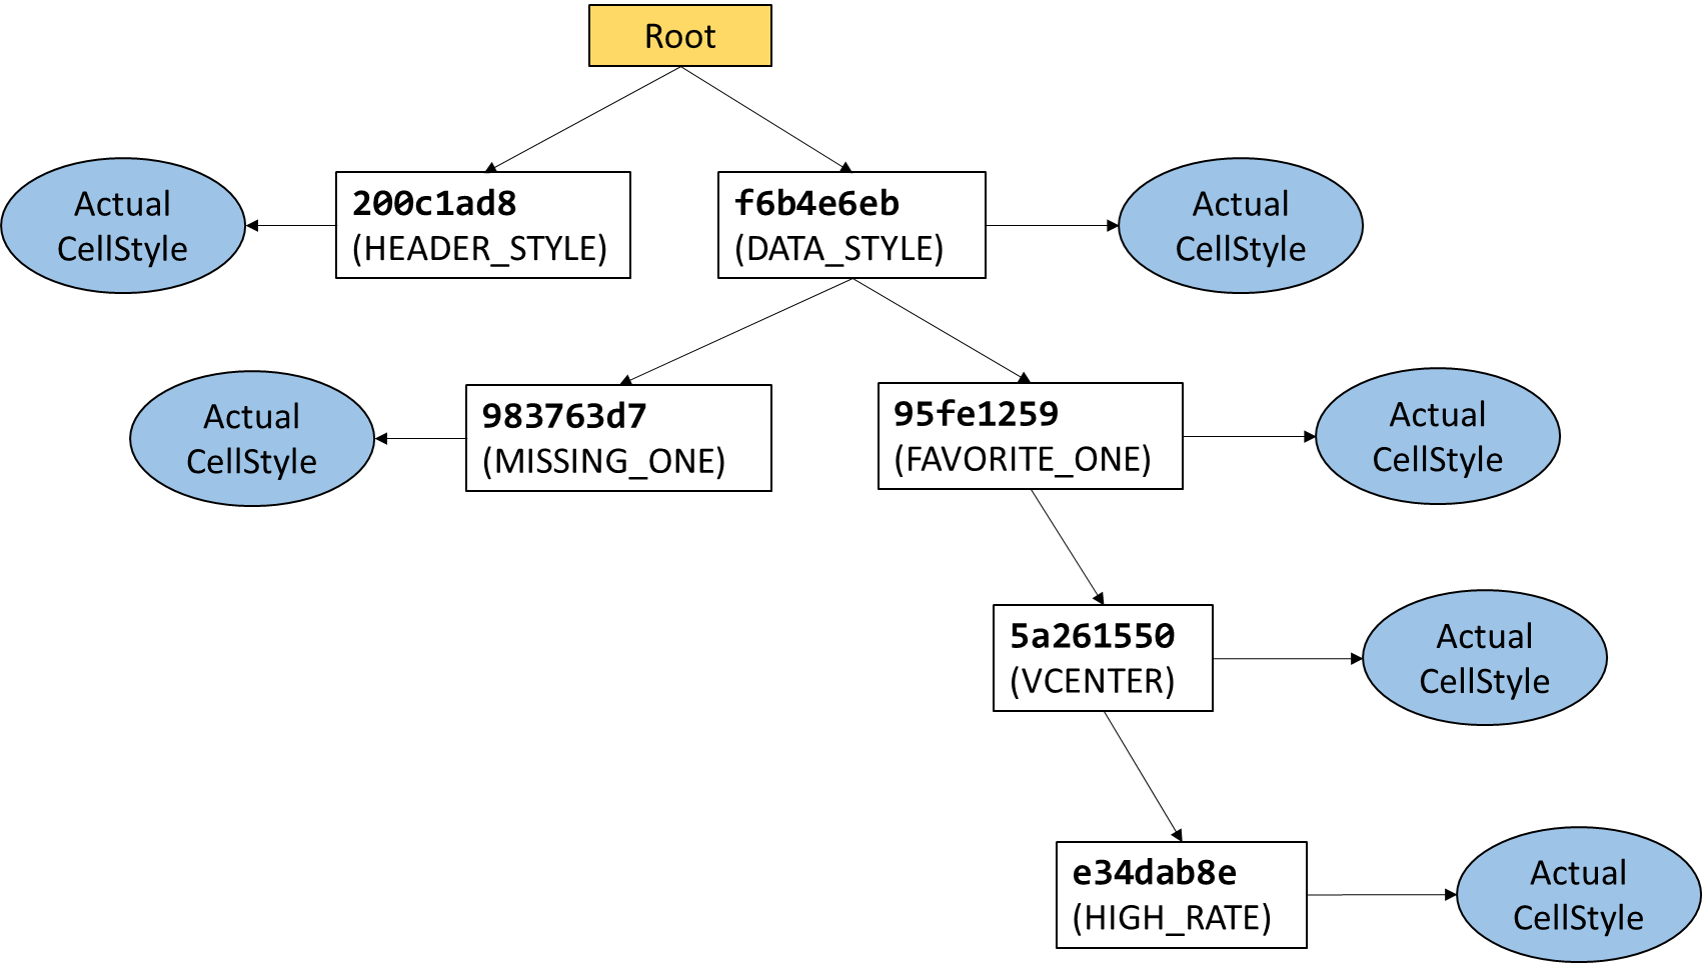
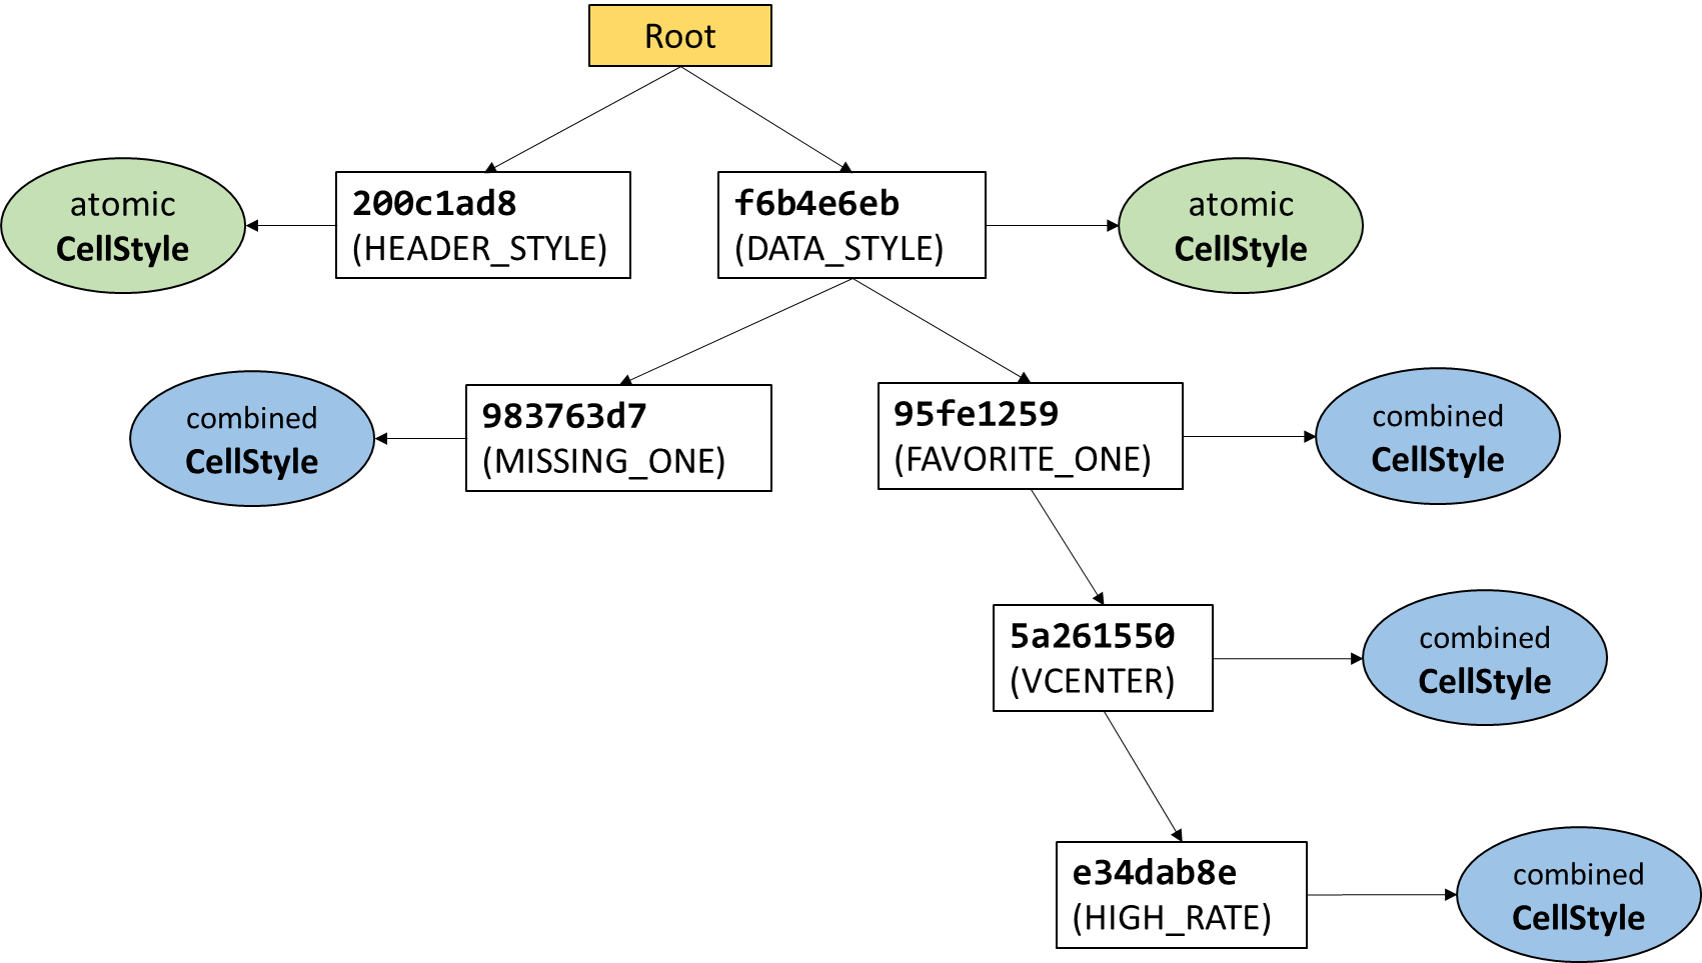
Update wiki

diff --git a/src/test/java/write/Sample1.java b/src/test/java/write/Sample1.java
@@ -7,6 +7,7 @@ import io.github.nambach.excelutil.util.FileUtil;
 import model.Book;
 import model.Constant;
 import org.apache.poi.ss.usermodel.HorizontalAlignment;
+import org.apache.poi.ss.usermodel.IndexedColors;
 
 import java.io.InputStream;
 
@@ -33,7 +34,13 @@ public class Sample1 {
     static final Style HIGH_RATE = Style
             .builder().bold(true)
             .fontColorInHex("#008000")  // green
+            .backgroundColor(IndexedColors.WHITE)
             .build();
+
+    static final Style BROWN = Style
+            .builder()
+            .fontColor(IndexedColors.WHITE)
+            .backgroundColorInHex("#990000").build();
 
     static final Style FAVORITE_ONE = Style.builder().backgroundColorInHex("#FFB6C1").build();
 

diff --git a/wiki/style.md b/wiki/style.md
@@ -2,16 +2,17 @@ One of the problem when writing data is that Excel file has some [limitations](h
 - `.xls` file has maximum of 4,000 cell styles
 - `.xlsx` file has maximum of 64,000 cell styles.
 
-Therefore, in case we only use Apache POI, if our code is not carefully written, the chance is that we will have some error like this
+Therefore, in case we only use Apache POI, if our code is not carefully written, we may face some error likes this.
 ```
-Exception: java.lang.IllegalStateException: The maximum number of Cell Styles was exceeded. You can define up to 64000 style in a .xlsx Workbook
+Exception: java.lang.IllegalStateException: The maximum number of Cell Styles was exceeded.
+You can define up to 64000 style in a .xlsx Workbook
 ```
 
-# Cache styles using **ExcelUtil**
+# The mechanism of style caching in **ExcelUtil**
 
 **ExcelUtil** implements a caching mechanism based on tree structure to re-use styles from Apache POI.
 
-`Style` are declared before being used in exporting data.
+`Style` objects are declared before being used in exporting data.
 
 ```java
 Style BASED_STYLE = Style
@@ -20,9 +21,8 @@ Style BASED_STYLE = Style
     .fontSize((short) 12)
     .build();
 
-// it is able to accumulate previous style.
 Style HEADER_STYLE = Style
-    .builder(BASED_STYLE)
+    .builder(BASED_STYLE) // accumulate existing style
     .fontColorInHex("#ffffff")
     .backgroundColorInHex("#191970")
     .border(BorderSide.FULL)
@@ -33,41 +33,61 @@ Style HEADER_STYLE = Style
 ## 1. Style combination
 
 Styles can be applied in 4 places as below:
-1. Column style 
-2. (Conditional) Cell style
-3. Background style
-4. (Conditional) Row style
+- Column style 
+- (Conditional) Cell style
+- Background style
+- (Conditional) Row style
 
 ```java
 DataTemplate<Book> template = DataTemplate
     .fromClass(Book.class)
     ...
-    .column(c -> c.field("subCategory").style(VCENTER)) // 1. Column style
     .column(c -> c.field("rating")
-                  .conditionalStyle(book -> book.getRating() > 4 ?  // 2. Conditional cell style
-                                            HIGH_RATE : null))
-    .config(cf -> cf.dataStyle(DATA_STYLE) // 3. Background style
-                    .conditionalRowStyle(book -> book.getTitle() // 4. Conditional row style
+                  .style(BROWN) // Column style
+                  .conditionalStyle(book -> book.getTitle().contains("Sorcerer's")
+                                    ?  HIGH_RATE : null)) // Cell style
+    .config(cf -> cf.dataStyle(DATA_STYLE) // Background style
+                    .conditionalRowStyle(book -> book.getTitle() // Row style
                                     .contains("Harry Potter") ? FAVORITE_ONE : null));
 ```
 
-If a cell has styles in all 4 types simultaneously, those styles will be combined altogether with priorities as below:
+There are some situations, a cell can have multiple styles overlapping each other. In that case, styles will be combined altogether with priorities as below:
 
 ![Priorities](https://github.com/nambach/ExcelUtil/blob/master/wiki/img/style-priority.png)
 
-## 2. Cache style using tree
+Here is an example of output file may look like.
 
-Each `Style` object will have a unique UUID. When writing data, `Style` will be generated into POI `CellStyle` and applied to `Workbook`. The final goal of style caching is to re-use `CellStyle` based on its original UUID.
+![Example](https://github.com/nambach/ExcelUtil/blob/master/wiki/img/style-priority-example.png)
 
-To do so, **ExcelUtil** uses tree structure. Each node will store `CellStyle` as value and its UUID as identity. When a `Style` is applied, the according POI `CellStyle` will be generated and stored in a node. Next time, if that style is applied again, the program will look up in tree and re-use the existing `CellStyle`.
+## 2. Caching styles using tree
 
-For combined styles, to prevent excessive style creation, the combined `CellStyle` will only be created once and then stored in the path made of IDs of ingredient styles. Next time, if there is a need to combine styles again, the program will look up path of ingredient styles in order and re-use the existing `CellStyle`.
+Each `Style` object will have a unique ID. When writing data, `Style` will be generated into POI `CellStyle`. The goal of style caching is to re-use `CellStyle` based on its original ID.
+
+To do so, **ExcelUtil** uses tree structure. Each node will store the `CellStyle` as value and its original ID as identity. When applying a `Style`, the corresponding `CellStyle` will be generated and stored in a node. Next time, if that style is applied again, the program will look up in tree and re-use the existing `CellStyle`. These styles are called **Atomic CellStyle**
+
+For combined styles, to prevent excessive creation, the combined `CellStyle` will only be created once and then stored in the path made of IDs of ingredient styles. Next time, if there is a need to combine styles again, the program will look up the path of ingredient styles in order and re-use the existing `CellStyle`. These are called **Combined CellStyle**.
 
 ![Tree](https://github.com/nambach/ExcelUtil/blob/master/wiki/img/style-tree.png)
 
+Note that, for styles that are declared by *accumulating existing ones*, they are treated as **Atomic CellStyle**.
+
+```java
+// Atomic style
+Style BASED_STYLE = Style
+    .builder()
+    .fontName("Calibri")
+    .build();
+
+// Also atomic style
+Style HEADER_STYLE = Style
+    .builder(BASED_STYLE) // accumulate existing style
+    .fontColorInHex("#ffffff")
+    .backgroundColorInHex("#191970")
+    .build();
+```
 
 # Working with `Style`
 
 Now you know the underlying mechanism of style caching. To effectively support this method, just keep in mind only one thing:
 
-> Never create new styles while declaring `DataTemplate<T>`, `Template`, or writing data using `Editor`. Creating `Style` dynamically will lead to overcontrol the number of generated `CellStyle` and break the limitation. The best way is to define all styles statically before invoking them.
+> Never create new styles while declaring `DataTemplate<T>`, `Template`, or writing data using `Editor`. Creating `Style` dynamically will lead to overcontrol the number of generated `CellStyle` and break the limitation. It is best to define all styles statically.
